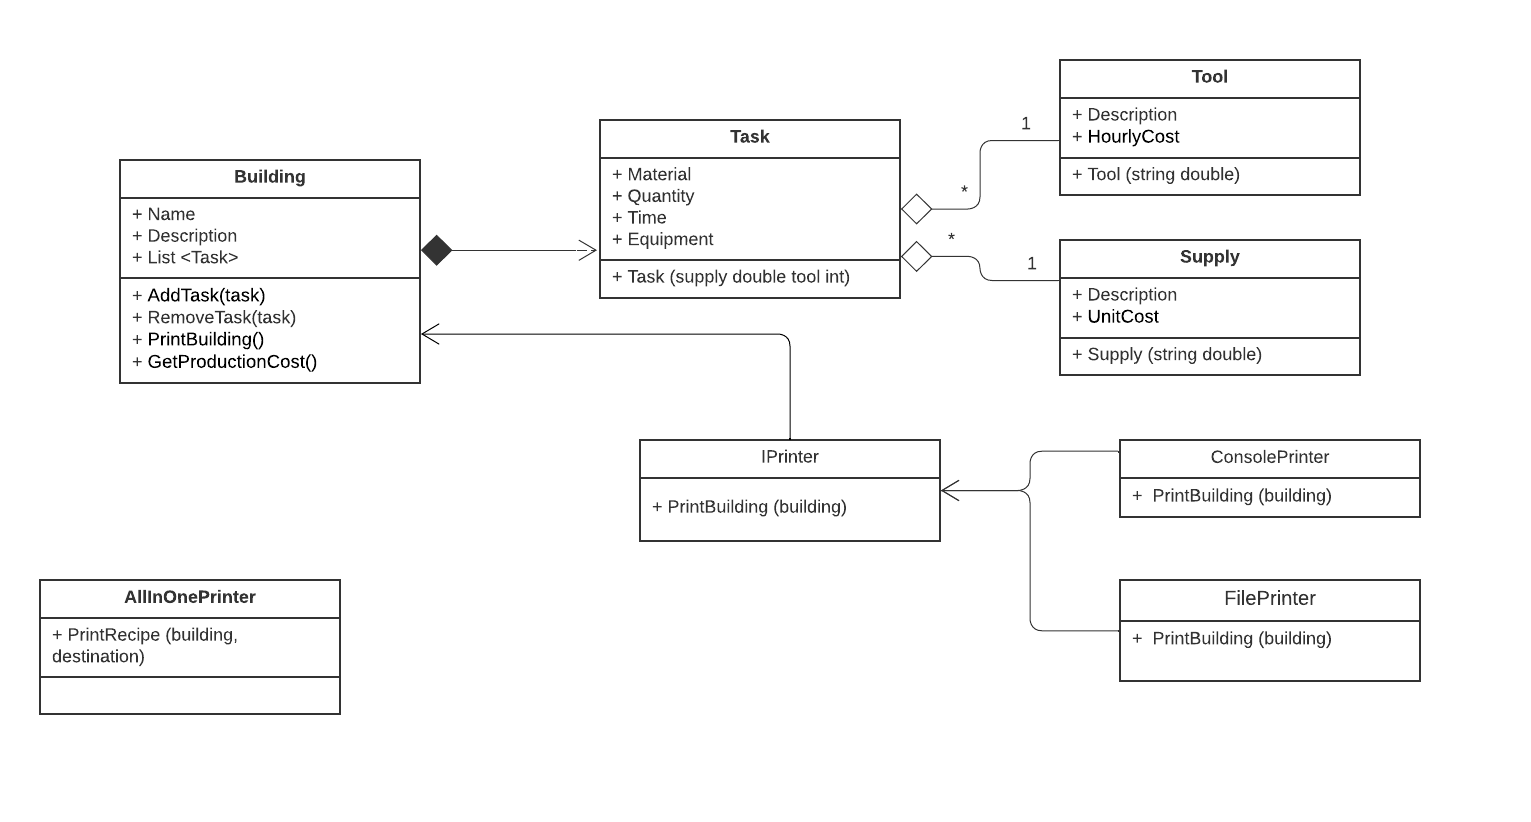
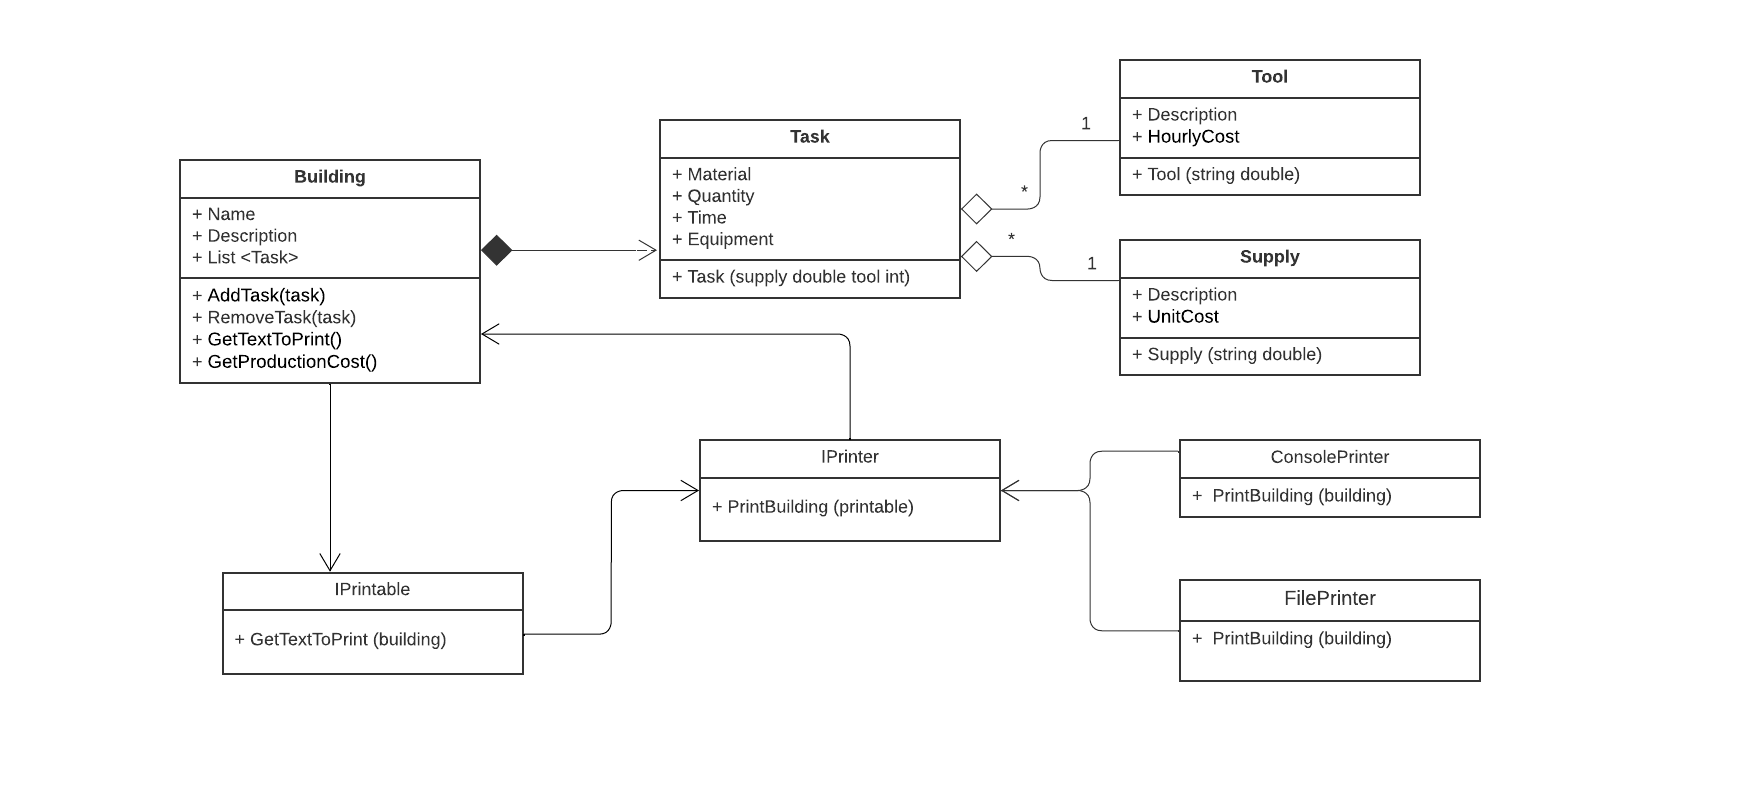
parte 5

diff --git a/test/LibraryTests/TestEdificaciones.cs b/test/LibraryTests/TestEdificaciones.cs
@@ -56,13 +56,14 @@ namespace Tests
         public void ConsolePrinterTest()
         {
             PopulateCatalogs();
+            IPrintable building = new Building("torre");
             IPrinter consolePrinter = new ConsolePrinter();
             Building tower = new Building("Tower");
             tower.AddTask(GetProduct("Cemento"), 100, GetEquipment("Hormigonera"), 120);
             tower.AddTask(GetProduct("Arena"), 200, GetEquipment("Hormigonera"), 120);
             tower.AddTask(GetProduct("Tabla"), 50, GetEquipment("Martillo"), 15);
-            consolePrinter.PrintBuilding(tower);
-            string textoImpreso = tower.PrintBuilding();
+            consolePrinter.PrintBuilding(building);
+            string textoImpreso = tower.GetTextToPrint();
             Assert.AreEqual("Edificio Tower:\n"                                     +
                             "100 de 'Cemento' usando 'Hormigonera' durante 120\n"   +
                             "200 de 'Arena' usando 'Hormigonera' durante 120\n"     +

diff --git a/src/Program/Program.cs b/src/Program/Program.cs
@@ -28,15 +28,20 @@ namespace Full_GRASP_And_SOLID
         public static void Main(string[] args)
         {
             PopulateCatalogs();
-            IPrinter consolePrinter = new ConsolePrinter();
-            IPrinter filePrinter = new FilePrinter();
+
+            
             Building tower = new Building("Tower");
             tower.AddTask(GetProduct("Cemento"), 100, GetEquipment("Hormigonera"), 120);
             tower.AddTask(GetProduct("Arena"), 200, GetEquipment("Hormigonera"), 120);
             tower.AddTask(GetProduct("Tabla"), 50, GetEquipment("Martillo"), 15);
             
+            //IPrintable building = new Building("torre");
+            IPrinter filePrinter = new FilePrinter();
+            IPrinter consolePrinter = new ConsolePrinter();
+            
             consolePrinter.PrintBuilding(tower);
             filePrinter.PrintBuilding(tower);
+
         }
 
         private static void PopulateCatalogs()

diff --git a/src/Library/Building.cs b/src/Library/Building.cs
@@ -9,12 +9,14 @@ using System.Collections;
 using System.Collections.Generic;
 
 
+
+
 namespace Full_GRASP_And_SOLID.Library
 {
     /// <summary>
     /// Clase que representa un edificio.
     /// </summary>
-    public class Building
+    public class Building : IPrintable
     {
         private ArrayList tasks = new ArrayList();
 
@@ -53,7 +55,7 @@ namespace Full_GRASP_And_SOLID.Library
         /// <summary>
         /// Método que da los pasos para imprimir un edificio.
         /// </summary>
-        public string PrintBuilding()
+        public string GetTextToPrint()
         {
             List<string> Buildings = new List<string>();
             Buildings.Add($"Edificio {this.Description}:");

diff --git a/src/Library/FilePrinter.cs b/src/Library/FilePrinter.cs
@@ -2,7 +2,6 @@ using System;
 using System.Collections;
 using System.IO;
 
-
 namespace Full_GRASP_And_SOLID.Library
 {
     /// <summary>
@@ -13,9 +12,9 @@ namespace Full_GRASP_And_SOLID.Library
         /// <summary>
         /// Este método imprime un edificio en archivo.
         /// </summary>
-        public void PrintBuilding(Building building)
+        public void PrintBuilding(IPrintable printable)
         {
-            File.WriteAllText("Building.txt", building.PrintBuilding());
+            File.WriteAllText("Building.txt", printable.GetTextToPrint());
         }
     }
     // Se utiliza el patrón Polimorfismo para que la clase ConsolePrinter y FilePrinter implementen la interfaz IPrinter.

diff --git a/src/Library/ConsolePrinter.cs b/src/Library/ConsolePrinter.cs
@@ -6,16 +6,15 @@ namespace Full_GRASP_And_SOLID.Library
     /// <summary>
     /// Clase que representa la impresión en consola.
     /// </summary>
-
-    public class ConsolePrinter : IPrinter
+     public class ConsolePrinter : IPrinter
     {
         /// <summary>
         /// Este método imprime un edificio en consola.
         /// </summary>
-        /// <param name="building"></param>
-        public void PrintBuilding(Building building)
+        /// <param name="printable"></param>
+        public void PrintBuilding(IPrintable printable)
         {
-            Console.WriteLine(building.PrintBuilding());
+            Console.WriteLine(printable.GetTextToPrint());
         }
         
     }

diff --git a/src/Library/AllInOnePrinter.cs b/src/Library/AllInOnePrinter.cs
@@ -35,11 +35,11 @@ namespace Full_GRASP_And_SOLID.Library
         {
             if (destination == Destination.Console) // No se cumple el principio de responsabilidad única, ya que esta clase se encarga de imprimir en consola y en archivo.
             {
-                Console.WriteLine(building.PrintBuilding());
+                Console.WriteLine(building.GetTextToPrint());
             }
             else
             {
-                File.WriteAllText("Building.txt", building.PrintBuilding());
+                File.WriteAllText("Building.txt", building.GetTextToPrint());
             }
         }
 

diff --git a/src/Library/IPrintable.cs b/src/Library/IPrintable.cs
@@ -1,13 +1,13 @@
 namespace Full_GRASP_And_SOLID.Library
 {
     /// <summary>
-    /// Esta interfaz se encarga de imprimir un edificio.
+    /// Esta interfaz se encarga de imprimir.
     /// </summary>
-    public interface IPrinter
+    public interface IPrintable
     {
         /// <summary>
         /// Este método imprime un edificio.
         /// </summary>
-        void PrintBuilding(IPrintable printable);
+        string GetTextToPrint();
     }
 }
